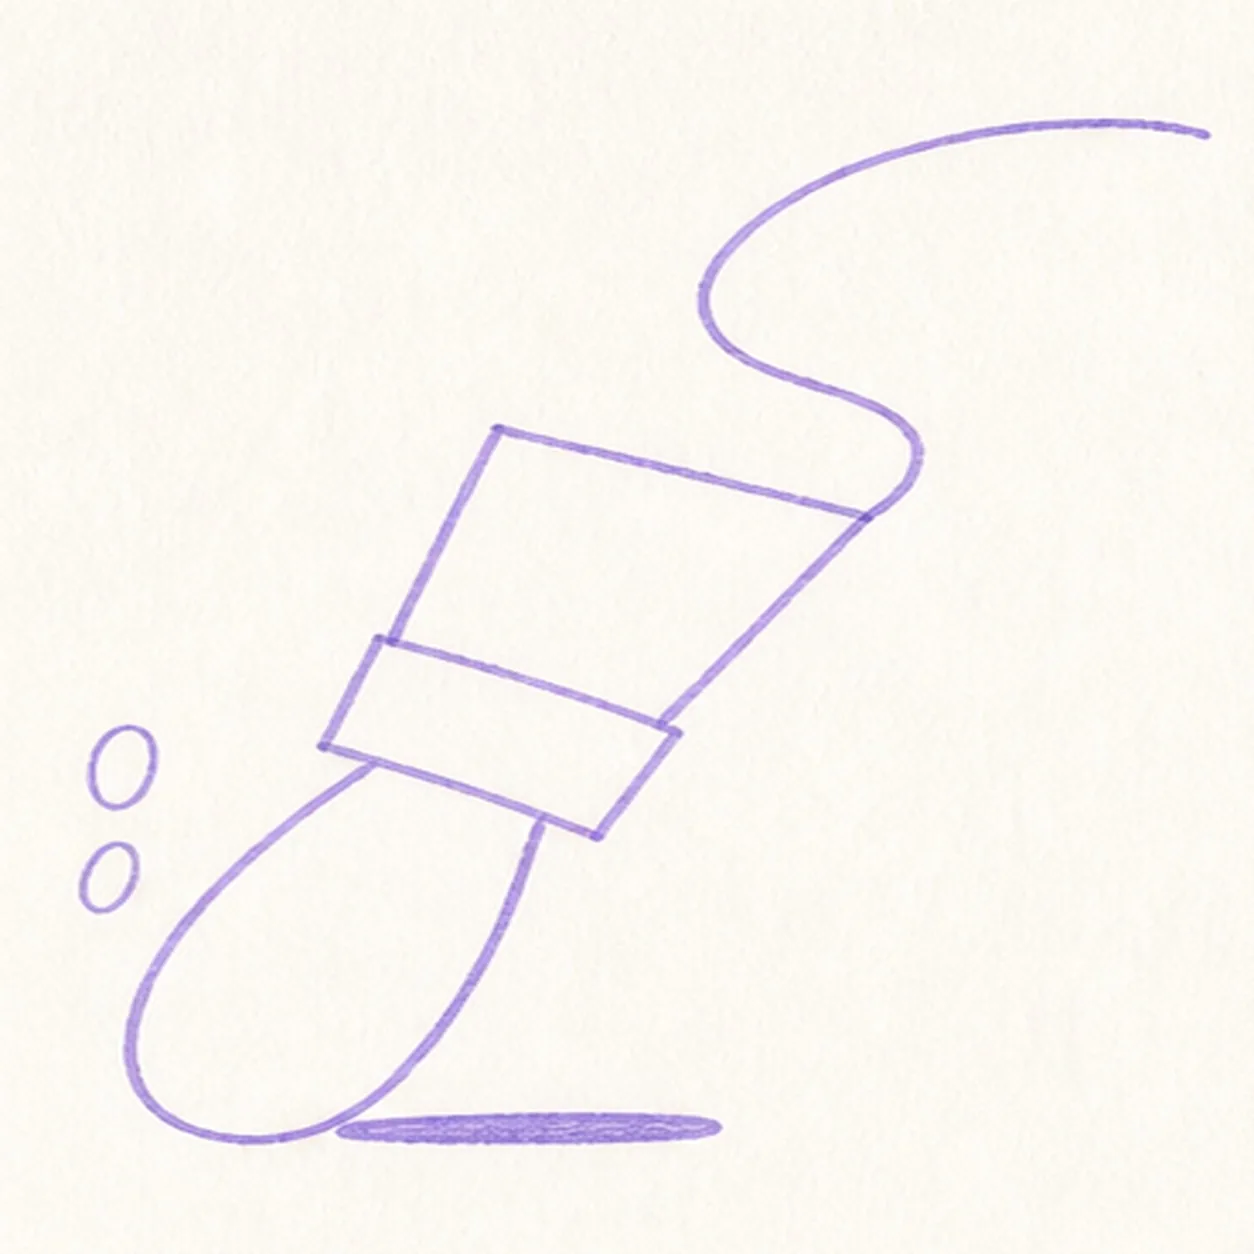
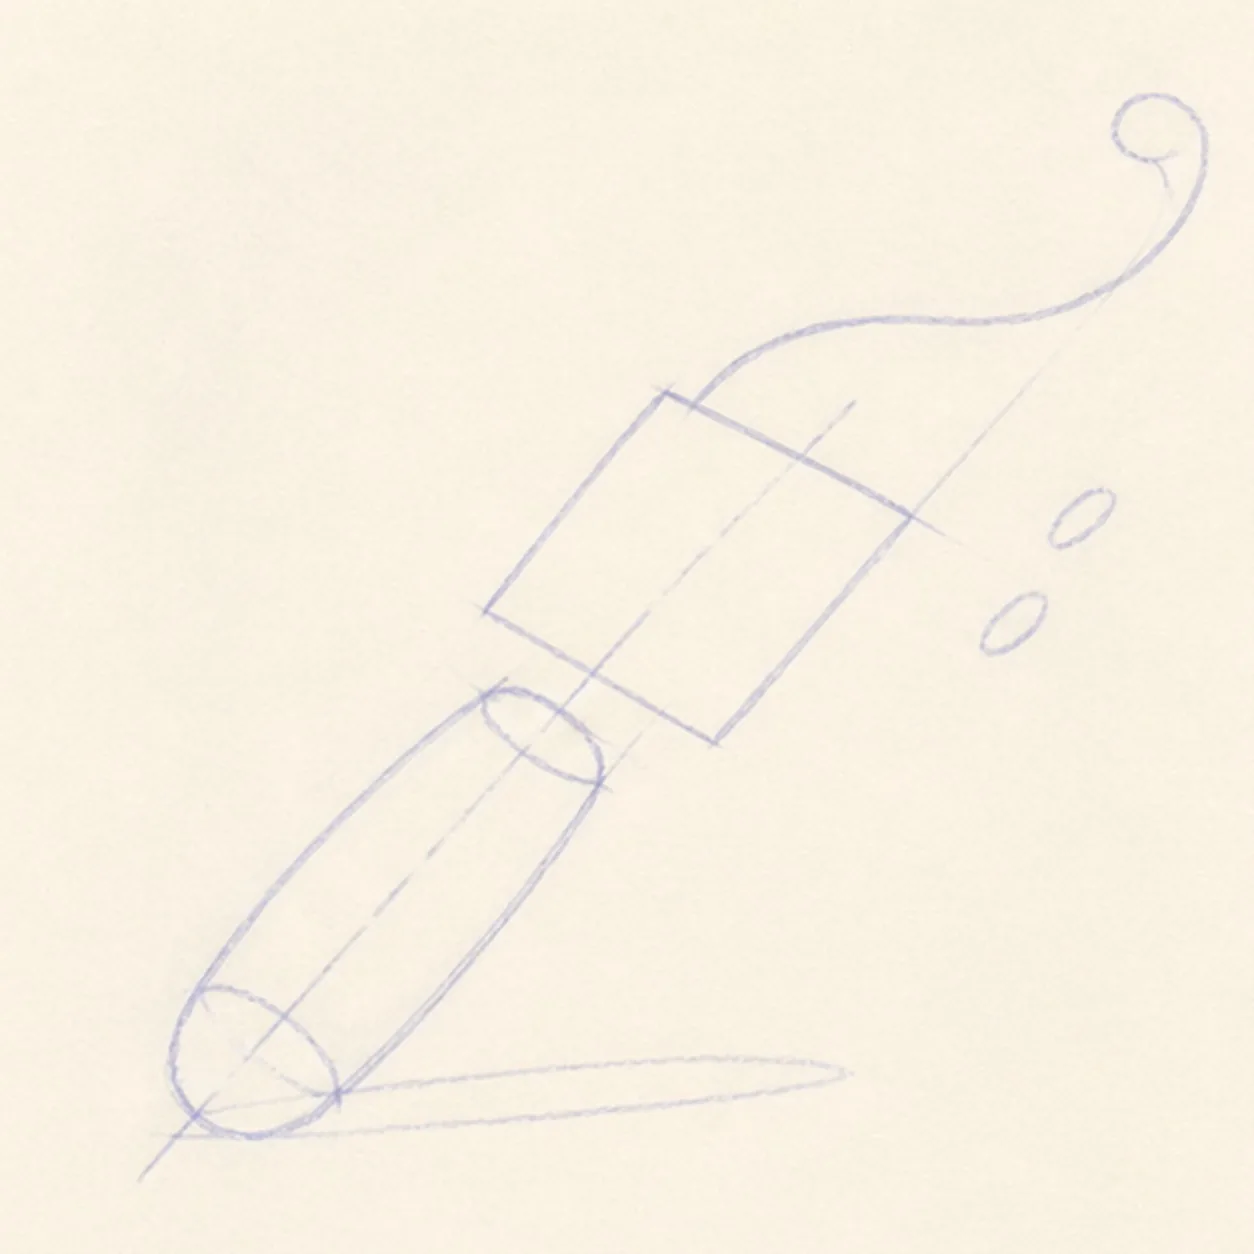
Repair paintbrush construction steps

diff --git a/tutorials/cartoon-paintbrush-with-rainbow-paint.html b/tutorials/cartoon-paintbrush-with-rainbow-paint.html
@@ -103,12 +103,12 @@
         {
           "@type": "HowToStep",
           "name": "Add the working details",
-          "text": "Add the two open-paper highlights, a few simple ferrule marks, light bristle streaks, and the reserved short flat shadow."
+          "text": "Add the ferrule seam, four small rivet dots, and long bristle-direction strokes without changing the brush or three paint bands."
         },
         {
           "@type": "HowToStep",
-          "name": "Clarify the bristle rhythm",
-          "text": "Refine the already-established bristle streaks and ferrule marks without changing the brush, three paint bands, highlights, or shadow."
+          "name": "Reserve the highlights and shadow",
+          "text": "Add the two open-paper handle highlights and the short flat ground shadow while preserving every established brush, hardware, bristle, and paint-band line."
         },
         {
           "@type": "HowToStep",
@@ -245,20 +245,20 @@
             </div>
             <div class="step-copy">
               <h3>Add the working details</h3>
-              <p>Add the two open-paper highlights, a few simple ferrule marks, light bristle streaks, and the reserved short flat shadow.</p>
-              <p class="artist-tip"><strong>Marker tip:</strong> Keep the bristle strokes long and in the same direction. Let the shadow sit beneath the handle instead of wrapping around it like a border.</p>
+              <p>Add the ferrule seam, four small rivet dots, and long bristle-direction strokes without changing the brush or three paint bands.</p>
+              <p class="artist-tip"><strong>Marker tip:</strong> Keep the bristle strokes long and in the same direction. Four small dots are enough to suggest the ferrule hardware without competing with the paint.</p>
             </div>
           </li>
           <li class="step-card">
             <button class="step-check" type="button" aria-label="Mark step 5 complete"><span></span></button>
             <div class="step-number">05</div>
             <div class="step-art">
-              <img src="../assets/cartoon-paintbrush-with-rainbow-paint-step-5.webp" alt="Clarify the bristle rhythm stage for how to draw a rainbow paintbrush" width="627" height="627" loading="lazy">
+              <img src="../assets/cartoon-paintbrush-with-rainbow-paint-step-5.webp" alt="Reserve the highlights and shadow stage for how to draw a rainbow paintbrush" width="627" height="627" loading="lazy">
             </div>
             <div class="step-copy">
-              <h3>Clarify the bristle rhythm</h3>
-              <p>Refine the already-established bristle streaks and ferrule marks without changing the brush, three paint bands, highlights, or shadow.</p>
-              <p class="artist-tip"><strong>Marker tip:</strong> Use fewer marks than you think. The bristles should still read as one broad shape at thumbnail size.</p>
+              <h3>Reserve the highlights and shadow</h3>
+              <p>Add the two open-paper handle highlights and the short flat ground shadow while preserving every established brush, hardware, bristle, and paint-band line.</p>
+              <p class="artist-tip"><strong>Marker tip:</strong> Leave both highlight shapes uncolored from the beginning, and keep the shadow beneath the handle instead of wrapping around it like a border.</p>
             </div>
           </li>
           <li class="step-card">

diff --git a/index.html b/index.html
@@ -143,20 +143,20 @@
             </div>
             <div class="step-copy">
               <h3>Add the working details</h3>
-              <p>Add the two open-paper highlights, a few simple ferrule marks, light bristle streaks, and the reserved short flat shadow.</p>
-              <p class="artist-tip"><strong>Marker tip:</strong> Keep the bristle strokes long and in the same direction. Let the shadow sit beneath the handle instead of wrapping around it like a border.</p>
+              <p>Add the ferrule seam, four small rivet dots, and long bristle-direction strokes without changing the brush or three paint bands.</p>
+              <p class="artist-tip"><strong>Marker tip:</strong> Keep the bristle strokes long and in the same direction. Four small dots are enough to suggest the ferrule hardware without competing with the paint.</p>
             </div>
           </li>
           <li class="step-card">
             <button class="step-check" type="button" aria-label="Mark step 5 complete"><span></span></button>
             <div class="step-number">05</div>
             <div class="step-art">
-              <img src="assets/cartoon-paintbrush-with-rainbow-paint-step-5.webp" alt="Clarify the bristle rhythm stage for how to draw a rainbow paintbrush" width="627" height="627" loading="lazy">
+              <img src="assets/cartoon-paintbrush-with-rainbow-paint-step-5.webp" alt="Reserve the highlights and shadow stage for how to draw a rainbow paintbrush" width="627" height="627" loading="lazy">
             </div>
             <div class="step-copy">
-              <h3>Clarify the bristle rhythm</h3>
-              <p>Refine the already-established bristle streaks and ferrule marks without changing the brush, three paint bands, highlights, or shadow.</p>
-              <p class="artist-tip"><strong>Marker tip:</strong> Use fewer marks than you think. The bristles should still read as one broad shape at thumbnail size.</p>
+              <h3>Reserve the highlights and shadow</h3>
+              <p>Add the two open-paper handle highlights and the short flat ground shadow while preserving every established brush, hardware, bristle, and paint-band line.</p>
+              <p class="artist-tip"><strong>Marker tip:</strong> Leave both highlight shapes uncolored from the beginning, and keep the shadow beneath the handle instead of wrapping around it like a border.</p>
             </div>
           </li>
           <li class="step-card">
